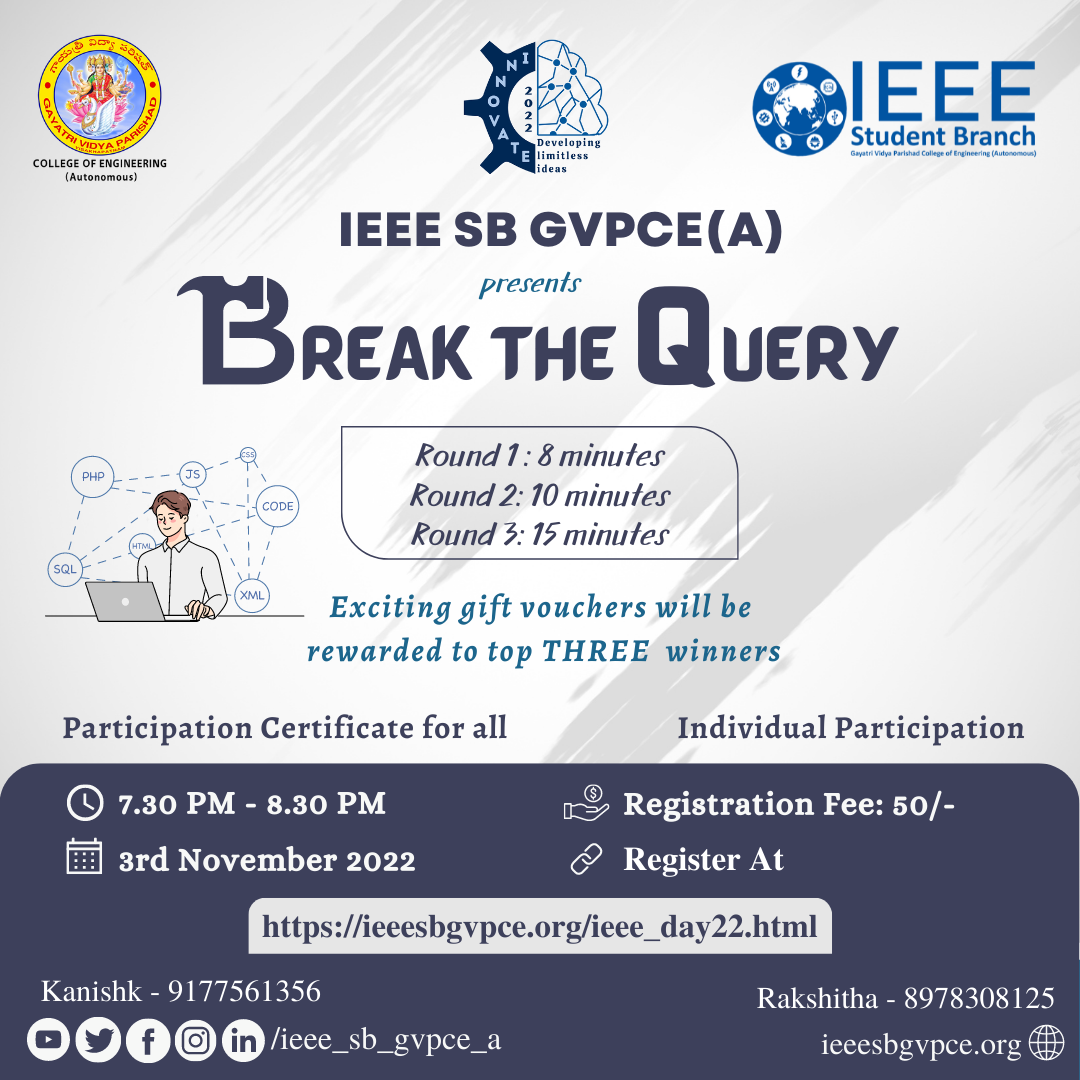
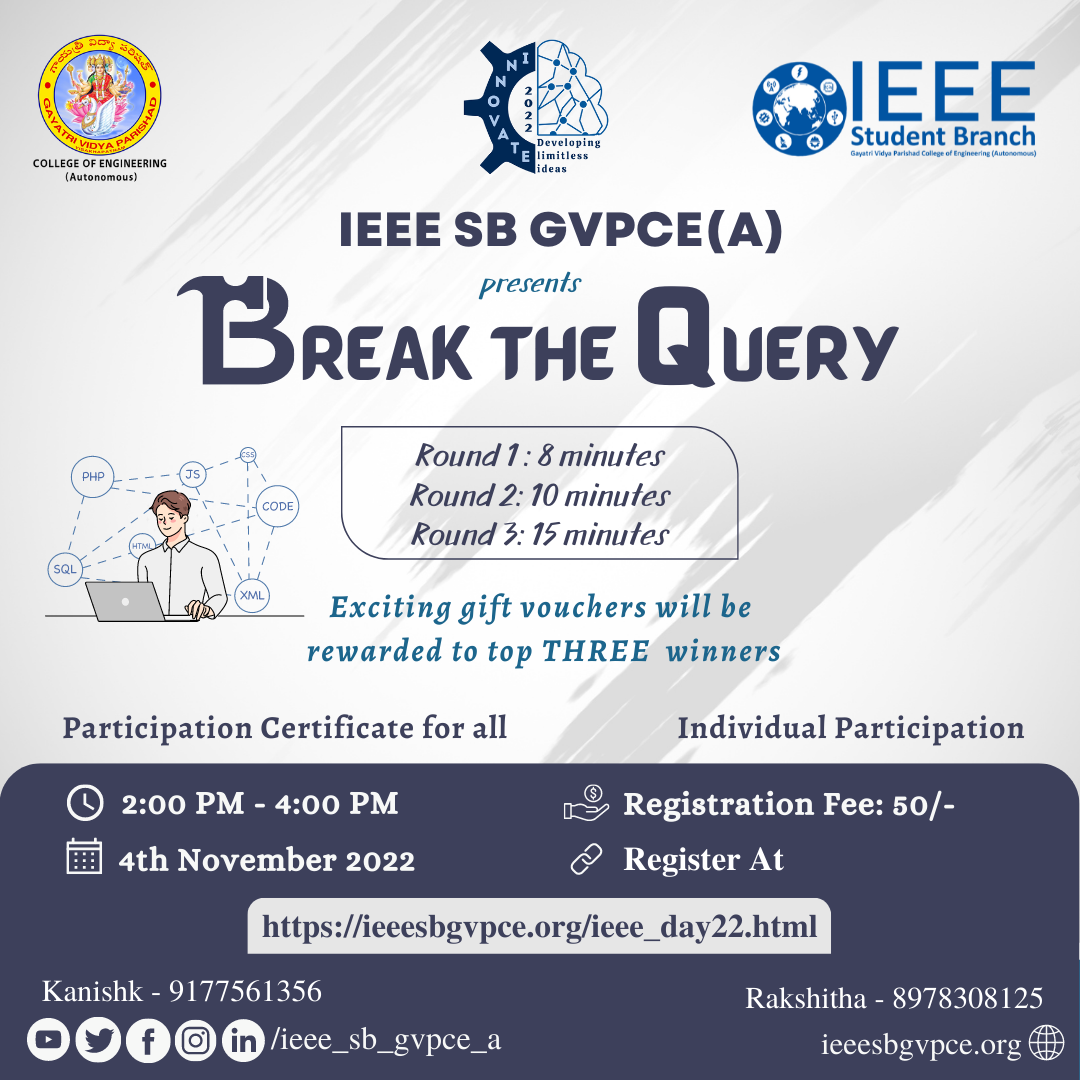
patches-6

diff --git a/ieee_day22.html b/ieee_day22.html
@@ -185,7 +185,7 @@
         <!--<video class="video" controls>
           <source src="images/IEEE Day '22 Demo.mp4" type="video/mp4">
         </video>-->
-        <iframe  id="demovd"  src="https://www.youtube.com/embed/6ygARHP0uM8">
+        <iframe id="demovd" src="https://www.youtube.com/embed/6ygARHP0uM8">
         </iframe>
       </center>
 
@@ -233,6 +233,10 @@
         <li class="nav-item">
           <a class="nav-link" id="paget8" data-toggle="tab" href="#page8" role="tab" aria-controls="home"
             aria-selected="true">Nov 3</a>
+        </li>
+        <li class="nav-item">
+          <a class="nav-link" id="paget10" data-toggle="tab" href="#page10" role="tab" aria-controls="home"
+            aria-selected="true">Nov 4</a>
         </li>
         <li class="nav-item">
           <a class="nav-link" id="paget9" data-toggle="tab" href="#page9" role="tab" aria-controls="home"
@@ -618,6 +622,35 @@
             </div>
           </div>
 
+          <div class="accordion-item">
+            <h2 class="accordion-header">
+              <button type="button" class="accordion-button collapsed" data-bs-toggle="collapse"
+                data-bs-target="#collapseThree">
+                <h4 class="eventname">Break The Query</h4>
+              </button>
+            </h2>
+            <div class="accordion-collapse collapse" id="collapseThree" data-bs-parent="#accordionSection">
+              <div class="accordion-body">
+                <div class="card">
+                  <img src="images/ieee_day22/btq.png" class="card-img-top" alt="..." />
+                  <div class="card-body text-center">
+                    <h4 class="card-title">Break The Query</h4>
+                    <p class="card-text">
+                      How much data is too much data🤔? test and improve you’re backend skills💻 through “Break The
+                      Query”(SQL hackathon). Register now✨!
+                    </p>
+                    <a href="events\2022\ieee_day22\54_btq.html" class="btn btn-primary event-page-link">Register
+                      Here</a>
+                  </div>
+                </div>
+              </div>
+            </div>
+          </div>
+
+        </div>
+      </div>
+      <div class="tab-pane fade" id="page10" role="tabpanel" aria-labelledby="paget10">
+        <div class="accordion mt-4" id="accordionSection">
           <div class="accordion-item">
             <h2 class="accordion-header">
               <button type="button" class="accordion-button collapsed" data-bs-toggle="collapse"
@@ -1184,7 +1217,7 @@
         <div class="text-center">
           <h4 class="mt-3 event-name colorincard">Break The Query</h4>
           <h6 style="font-family: 'Cookie', cursive; animation:0!important;" class="colorincard"><i
-              class="fa fa-map-marker" aria-hidden="true"></i> Online</h6>
+              class="fa fa-map-marker" aria-hidden="true"></i> Offline</h6>
         </div>
         <div class=" text-center pt-3 colorincard">
           <h5 class="mb-2 colorincard"><strong>Register before</strong></h5>
@@ -1192,12 +1225,12 @@
           <div class="mb-1 datetime d-flex flex-row">
             <div>
               <i class="fa fa-calendar" aria-hidden="true" width="50%"></i>
-              3rd Nov
+              4th Nov
             </div>
 
             <div>
               <i class="fa fa-clock-o colorincard" aria-hidden="true" width="50%"></i>
-              7:30-8:30 pm
+              2:00-4:00 pm
             </div>
           </div>
 

diff --git a/js/hf.js b/js/hf.js
@@ -90,9 +90,9 @@ class MyFooter extends HTMLElement {
 							<hr class="underline" align="left" style="width:9em">
 						</div>
 						<div>
-							<p>E-Mail: <span><a href="mailto:ieeesb@gvpce.ac.in? subject = ">ieeesb@gvpce.ac.in</a></span></p>
-							<p>Mobile: <a href="tel:+919441969659">+91 9441969659</a> (Branch Counsellor)</p>
-							<p>Mobile: <a href="tel:+919182985123">+91 9182985123</a> (Chair)</p>
+							<p class="footer-white">E-Mail: <span><a href="mailto:ieeesb@gvpce.ac.in? subject = ">ieeesb@gvpce.ac.in</a></span></p>
+							<p class="footer-white">Mobile: <a href="tel:+919441969659">+91 9441969659</a> (Branch Counsellor)</p>
+							<p class="footer-white">Mobile: <a href="tel:+916303955842">+91 6303955842</a> (Chair)</p>
 						</div>
 					</div>
 					<div class="col-xs-12 col-md-4">

diff --git a/events/2022/ieee_day22/54_btq.html b/events/2022/ieee_day22/54_btq.html
@@ -59,9 +59,9 @@
             <div class="row align-items-center">
                 <div class="col-sm-10 offset-sm-1 m-2 details">
 
-                    <p><span class="heading">Date:</span> 03rd Nov '22</p>
-                    <p><span class="heading">Time:</span> 7:30pm - 8:30 pm</p>
-                    <p><span class="heading">Platform:</span> HackerRank (Online)</p>
+                    <p><span class="heading">Date: </span> 4th Nov '22</p>
+                    <p><span class="heading">Time: </span> 2:00pm - 4:00 pm</p>
+                    <p><span class="heading">Platform: </span> Offline (Venue will be updated soon)</p>
                     <p><span class="heading">Registration Fees: </span>50/-</p>
 
                 </div>

diff --git a/events/ieee_day22.html b/events/ieee_day22.html
@@ -192,7 +192,7 @@
                                 <p class="card-text">We members of <b style="color: #fc9b1c; font-weight: 750">IEEE SB
                                         CS GVPCE (A)</b> presents you a workshop on Machine Learning.</p>
                                 <!-- <p class="card-text"><small class="text-muted">Last updated 3 mins ago</small></p> -->
-                                <a href="2022/ieee_day22/48_rqp.html" class="btn pull-right" role="button"
+                                <a href="2022/ieee_day22/48_rpq.html" class="btn pull-right" role="button"
                                     aria-pressed="true">View Details</a>
                             </div>
                         </div>

diff --git a/css/styles.css b/css/styles.css
@@ -445,7 +445,9 @@ a.ieee-day {
     overflow: hidden;
     margin-bottom: -2px;
 }
-
+.footer-white{
+    color: white!important;
+}
 .ieee-sb-gvpce{
     padding: 50px 0;
     background-image: linear-gradient(rgba(26,88,203,0.5), rgba(7,198,237,0.5)),linear-gradient(rgba(0,0,0,0.6), rgba(0,0,0,0.6)),url("../images/cover-gvp.png");
